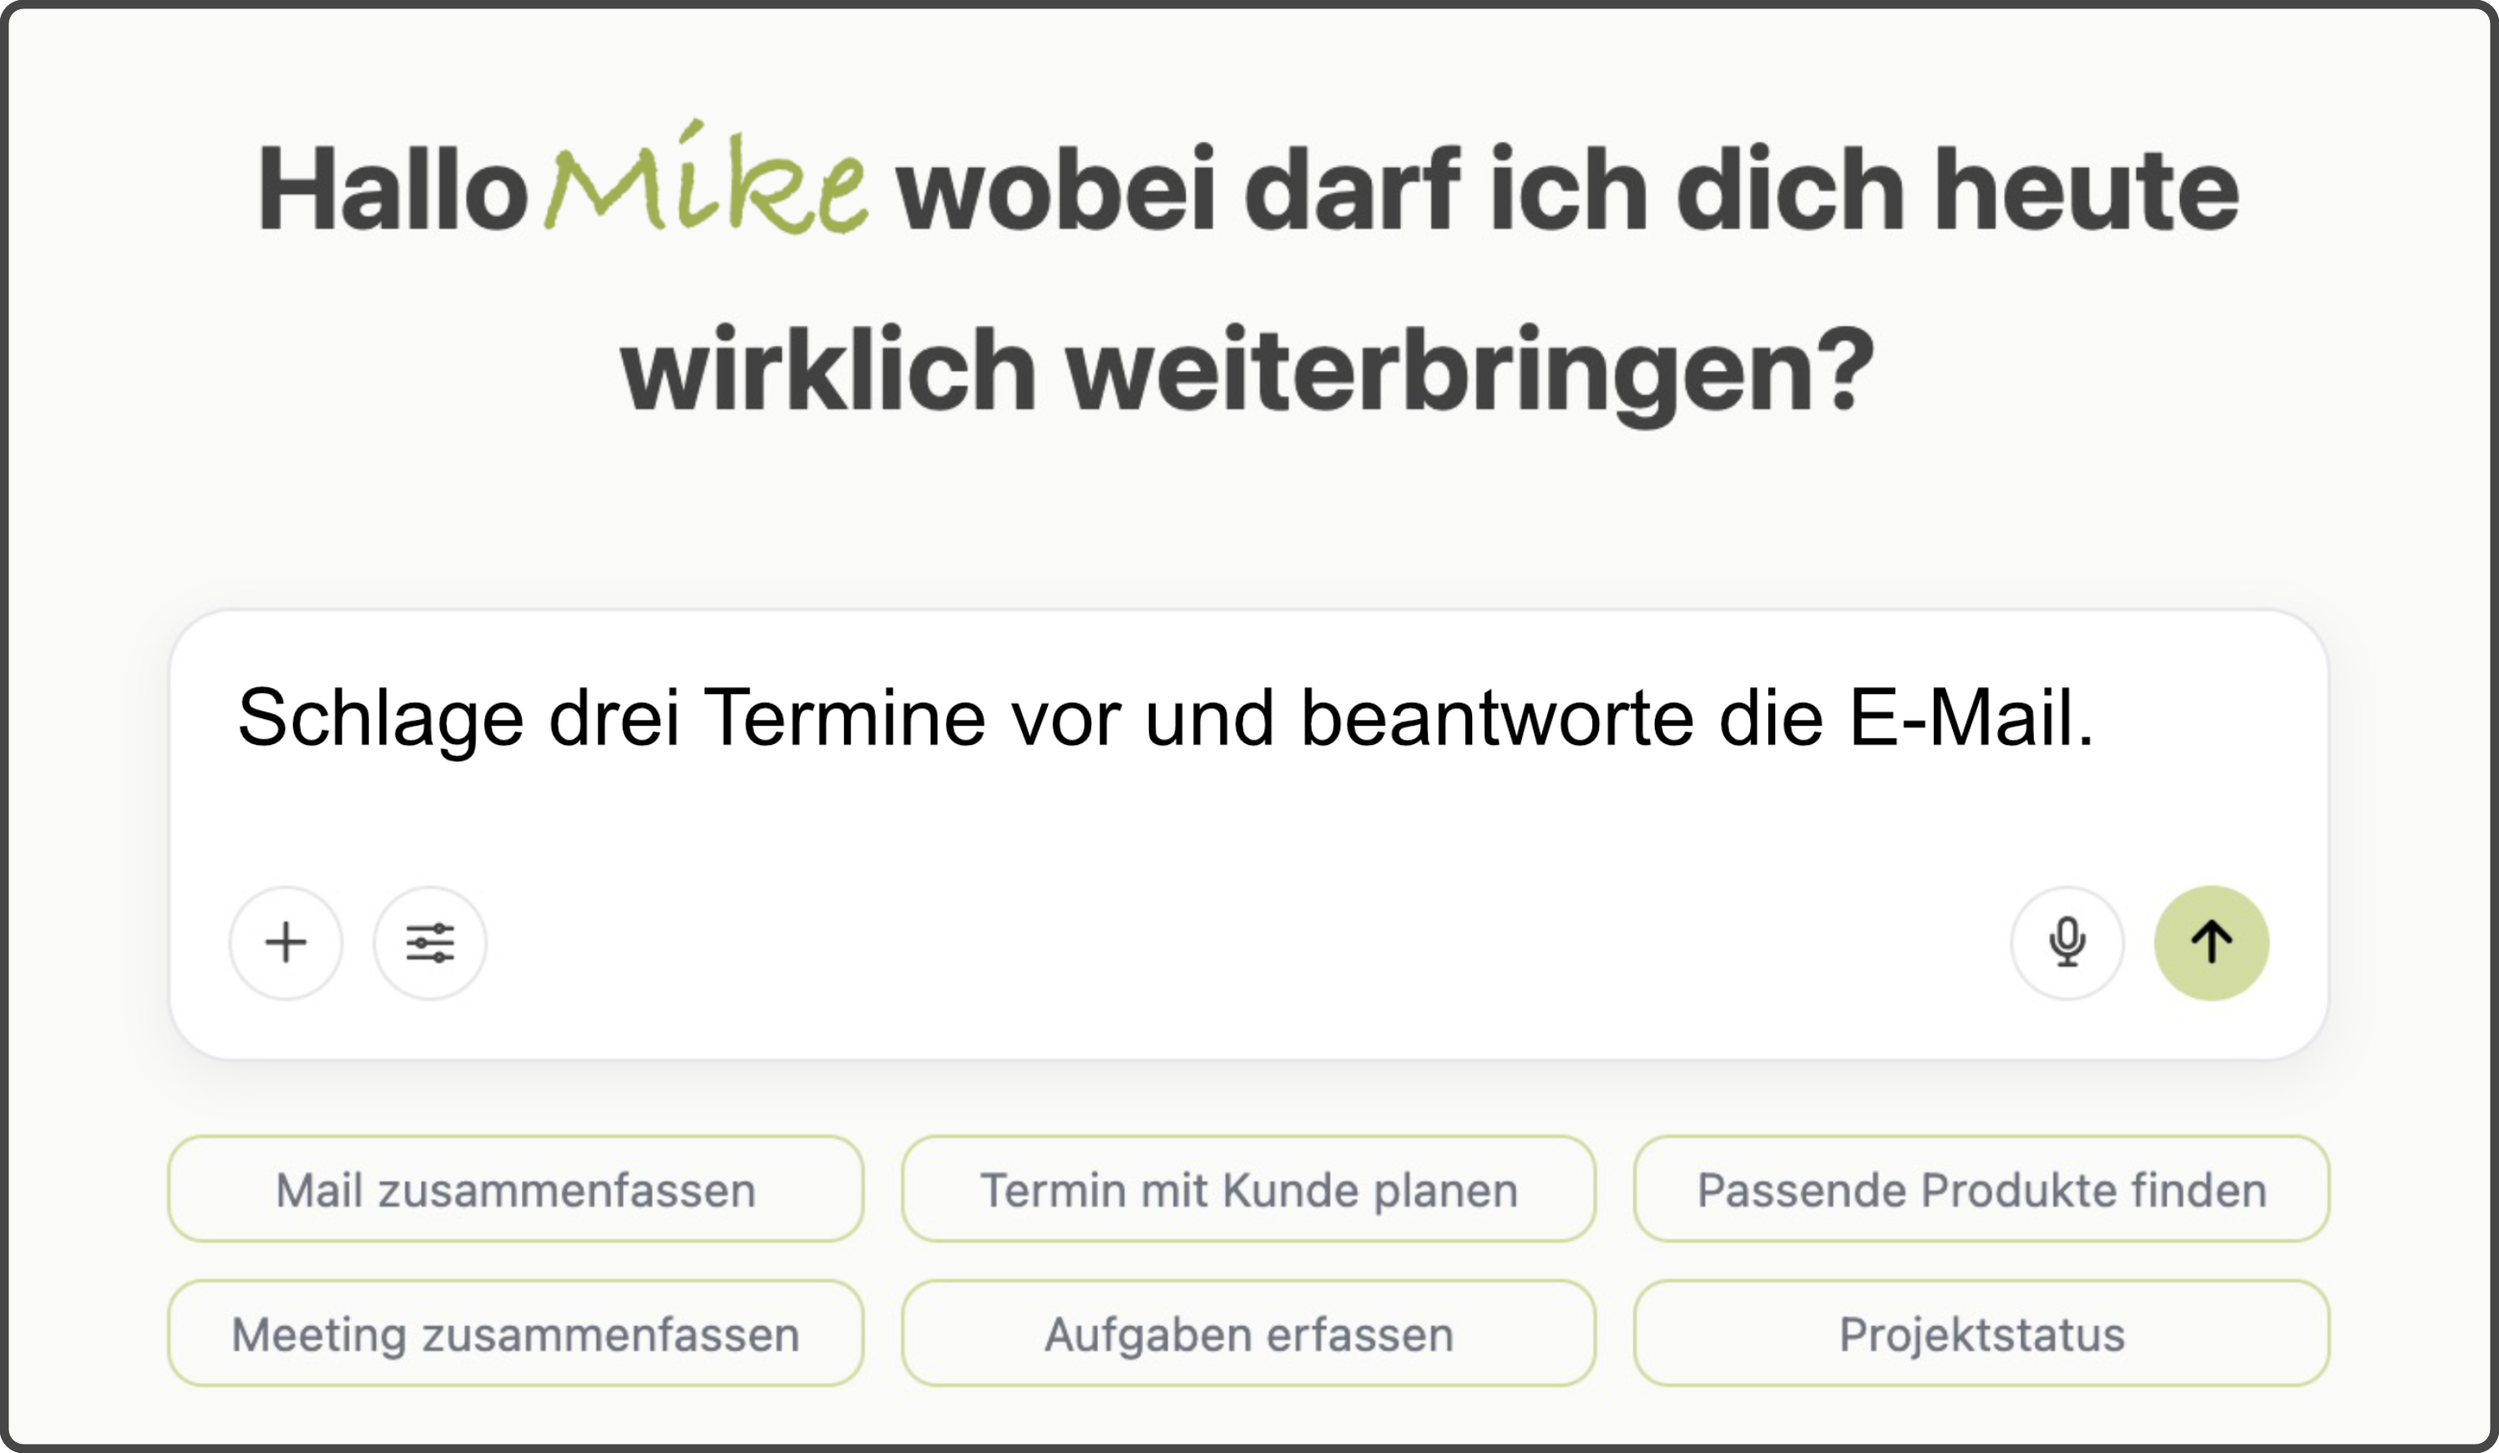
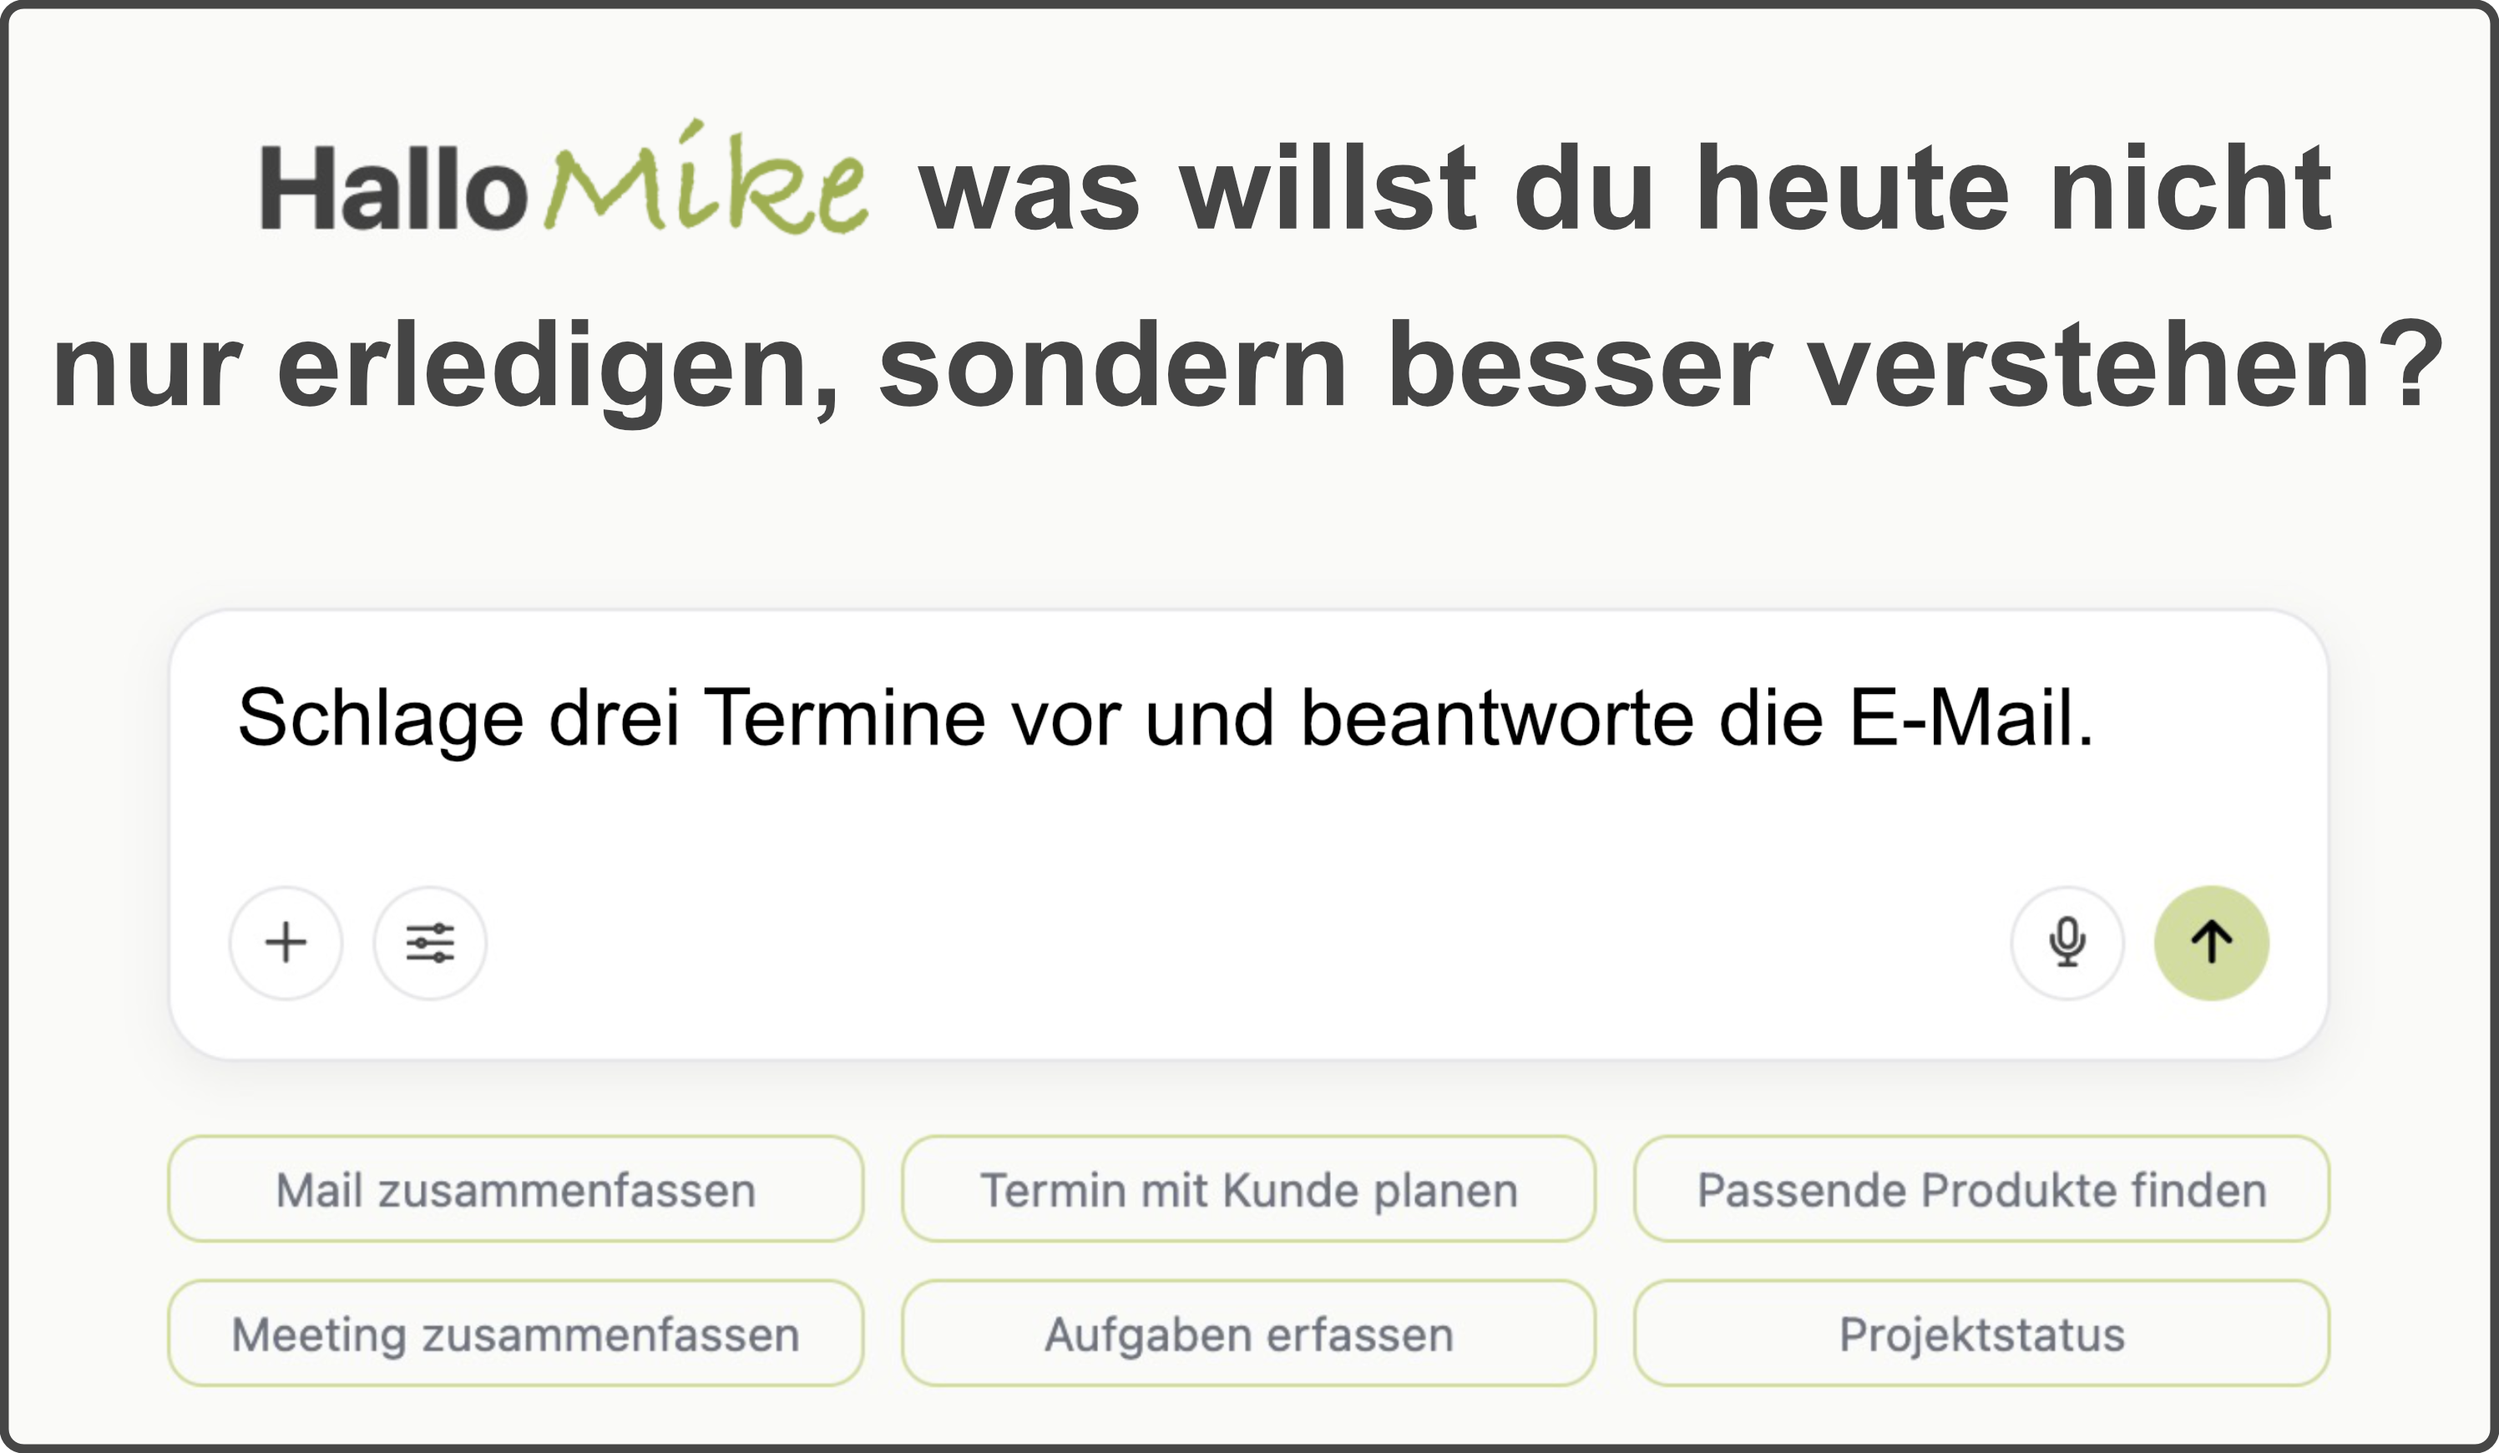
Aktualisiere freigestellte Fragen im Assistenten-Showcase.
Neue gerahmte Fragebilder direkt verwenden und Aufgaben sowie Meetingtranskript den passenden Antworten zuordnen.

Changed region(s): [[0.0, 0.2172, 0.9943, 0.3103], [0.3418, 0.0931, 0.9322, 0.1552]]

diff --git a/index.html b/index.html
@@ -8,7 +8,7 @@
     <link rel="preconnect" href="https://fonts.googleapis.com">
     <link rel="preconnect" href="https://fonts.gstatic.com" crossorigin>
     <link href="https://fonts.googleapis.com/css2?family=Cormorant+Garamond:ital,wght@0,400;0,500;0,600;1,400;1,500&display=swap" rel="stylesheet">
-    <link rel="stylesheet" href="styles.css?v=120">
+    <link rel="stylesheet" href="styles.css?v=121">
   </head>
   <body>
     <header class="site-header">
@@ -278,7 +278,7 @@
             <div class="assistant-showcase-viewport" aria-live="polite">
               <figure class="assistant-showcase-slide is-active" data-example="0" data-step="0">
                 <img
-                  src="assets/images/Asistent%20bei%20der%20Arbeit/Frage%201%20-%20Mail.png?v=3"
+                  src="assets/images/Asistent%20bei%20der%20Arbeit/Frage%201%20-%20Zeige%20E-Mail.png?v=4"
                   alt="Eingabe: Zeige mir die letzte E-Mail von Michael Keller zum Projekt Areal Meierwiesen"
                   width="1600"
                   height="900"
@@ -287,7 +287,7 @@
               </figure>
               <figure class="assistant-showcase-slide" data-example="0" data-step="1" hidden>
                 <img
-                  src="assets/images/Asistent%20bei%20der%20Arbeit/Amtwort%201%20-%20Mail.png?v=3"
+                  src="assets/images/Asistent%20bei%20der%20Arbeit/Amtwort%201%20-%20Mail.png?v=4"
                   alt="Antwort: zuraio zeigt die letzte E-Mail zum Projekt Areal Meierwiesen"
                   width="1600"
                   height="900"
@@ -297,7 +297,7 @@
               </figure>
               <figure class="assistant-showcase-slide" data-example="1" data-step="0" hidden>
                 <img
-                  src="assets/images/Asistent%20bei%20der%20Arbeit/Frage%202%20-%20Zusammenfassung.png?v=3"
+                  src="assets/images/Asistent%20bei%20der%20Arbeit/Frage%202%20-%20Zusammenfassung.png?v=4"
                   alt="Eingabe: Fasse mir den aktuellen Stand des Projekts Areal Meierwiesen zusammen"
                   width="1600"
                   height="900"
@@ -307,7 +307,7 @@
               </figure>
               <figure class="assistant-showcase-slide" data-example="1" data-step="1" hidden>
                 <img
-                  src="assets/images/Asistent%20bei%20der%20Arbeit/Antwort%202%20-%20Zusammenfassung.png?v=3"
+                  src="assets/images/Asistent%20bei%20der%20Arbeit/Antwort%202%20-%20Zusammenfassung.png?v=4"
                   alt="Antwort: zuraio liefert eine Projektzusammenfassung zu Areal Meierwiesen"
                   width="1600"
                   height="900"
@@ -317,7 +317,7 @@
               </figure>
               <figure class="assistant-showcase-slide" data-example="2" data-step="0" hidden>
                 <img
-                  src="assets/images/Asistent%20bei%20der%20Arbeit/Frage%203%20-%20Termine%20und%20Antwort.png?v=3"
+                  src="assets/images/Asistent%20bei%20der%20Arbeit/Frage%203%20-%20Termine%20und%20Antwort.png?v=4"
                   alt="Eingabe: Schlage drei Termine vor und beantworte die E-Mail"
                   width="1600"
                   height="900"
@@ -327,7 +327,7 @@
               </figure>
               <figure class="assistant-showcase-slide" data-example="2" data-step="1" hidden>
                 <img
-                  src="assets/images/Asistent%20bei%20der%20Arbeit/Antwort%203%20-%20Mail.png?v=3"
+                  src="assets/images/Asistent%20bei%20der%20Arbeit/Antwort%203%20-%20Mail.png?v=4"
                   alt="Antwort: zuraio erstellt eine E-Mail-Antwort mit Terminvorschlägen"
                   width="1600"
                   height="900"
@@ -337,7 +337,7 @@
               </figure>
               <figure class="assistant-showcase-slide" data-example="2" data-step="2" hidden>
                 <img
-                  src="assets/images/Asistent%20bei%20der%20Arbeit/Antwort%203%20-%20Termin.png?v=3"
+                  src="assets/images/Asistent%20bei%20der%20Arbeit/Antwort%203%20-%20Termin.png?v=4"
                   alt="Antwort: zuraio trägt drei Terminvorschläge in den Kalender ein"
                   width="1600"
                   height="900"
@@ -347,8 +347,8 @@
               </figure>
               <figure class="assistant-showcase-slide" data-example="3" data-step="0" hidden>
                 <img
-                  src="assets/images/Asistent%20bei%20der%20Arbeit/Frage%204%20-%20Meetingtranskript.png?v=3"
-                  alt="Eingabe: Starte das Meetingtranskript zum Projekt Areal Meierwiesen"
+                  src="assets/images/Asistent%20bei%20der%20Arbeit/Frage%204%20-%20Aufgaben.png?v=4"
+                  alt="Eingabe: Erstelle aus dem Meeting die Aufgaben für mich"
                   width="1600"
                   height="900"
                   loading="lazy"
@@ -357,8 +357,8 @@
               </figure>
               <figure class="assistant-showcase-slide" data-example="3" data-step="1" hidden>
                 <img
-                  src="assets/images/Asistent%20bei%20der%20Arbeit/Antwort%204%20-%20Meetingtranskript.png?v=3"
-                  alt="Antwort: zuraio zeigt das Meetingtranskript mit Audio-Wellenform"
+                  src="assets/images/Asistent%20bei%20der%20Arbeit/Antwort%205%20-%20Aufgabe.png?v=4"
+                  alt="Antwort: zuraio legt die Meeting-Aufgaben im Board an"
                   width="1600"
                   height="900"
                   loading="lazy"
@@ -367,8 +367,8 @@
               </figure>
               <figure class="assistant-showcase-slide" data-example="4" data-step="0" hidden>
                 <img
-                  src="assets/images/Asistent%20bei%20der%20Arbeit/Frage%205%20-%20Aufgabe.png?v=3"
-                  alt="Eingabe: Erstelle aus dem Meeting die Aufgaben für mich"
+                  src="assets/images/Asistent%20bei%20der%20Arbeit/Frage%205%20-%20Meetingtranskript.png?v=4"
+                  alt="Eingabe: Starte das Meetingtranskript zum Projekt Areal Meierwiesen"
                   width="1600"
                   height="900"
                   loading="lazy"
@@ -377,8 +377,8 @@
               </figure>
               <figure class="assistant-showcase-slide" data-example="4" data-step="1" hidden>
                 <img
-                  src="assets/images/Asistent%20bei%20der%20Arbeit/Antwort%205%20-%20Aufgabe.png?v=3"
-                  alt="Antwort: zuraio legt die Meeting-Aufgaben im Board an"
+                  src="assets/images/Asistent%20bei%20der%20Arbeit/Antwort%204%20-%20Meetingtranskript.png?v=4"
+                  alt="Antwort: zuraio zeigt das Meetingtranskript mit Audio-Wellenform"
                   width="1600"
                   height="900"
                   loading="lazy"
@@ -387,7 +387,7 @@
               </figure>
               <figure class="assistant-showcase-slide" data-example="5" data-step="0" hidden>
                 <img
-                  src="assets/images/Asistent%20bei%20der%20Arbeit/Frage%206%20-%20Briefing.png?v=3"
+                  src="assets/images/Asistent%20bei%20der%20Arbeit/Frage%206%20-%20Briefing.png?v=4"
                   alt="Eingabe: Erstelle mir ein kompaktes Briefing für das Statusmeeting mit dem Kunden"
                   width="1600"
                   height="900"
@@ -397,7 +397,7 @@
               </figure>
               <figure class="assistant-showcase-slide" data-example="5" data-step="1" hidden>
                 <img
-                  src="assets/images/Asistent%20bei%20der%20Arbeit/Antwort%206%20-%20Briefing.png?v=3"
+                  src="assets/images/Asistent%20bei%20der%20Arbeit/Antwort%206%20-%20Briefing.png?v=4"
                   alt="Antwort: zuraio liefert ein kompaktes Meetingbriefing"
                   width="1600"
                   height="900"
@@ -663,6 +663,6 @@
     </div>
 
     <script src="i18n-pages.js"></script>
-    <script src="script.js?v=63"></script>
+    <script src="script.js?v=64"></script>
   </body>
 </html>

diff --git a/script.js b/script.js
@@ -218,12 +218,12 @@ const translations = {
           "Antwort: zuraio trägt drei Terminvorschläge in den Kalender ein",
         ],
         [
-          "Eingabe: Starte das Meetingtranskript zum Projekt Areal Meierwiesen",
-          "Antwort: zuraio zeigt das Meetingtranskript mit Audio-Wellenform",
-        ],
-        [
           "Eingabe: Erstelle aus dem Meeting die Aufgaben für mich",
           "Antwort: zuraio legt die Meeting-Aufgaben im Board an",
+        ],
+        [
+          "Eingabe: Starte das Meetingtranskript zum Projekt Areal Meierwiesen",
+          "Antwort: zuraio zeigt das Meetingtranskript mit Audio-Wellenform",
         ],
         [
           "Eingabe: Erstelle mir ein kompaktes Briefing für das Statusmeeting mit dem Kunden",
@@ -841,12 +841,12 @@ const translations = {
           "Answer: zuraio places three appointment suggestions in the calendar",
         ],
         [
-          "Input: Start the meeting transcript for the Areal Meierwiesen project",
-          "Answer: zuraio shows the meeting transcript with an audio waveform",
-        ],
-        [
           "Input: Create my tasks from the meeting",
           "Answer: zuraio adds the meeting tasks to the board",
+        ],
+        [
+          "Input: Start the meeting transcript for the Areal Meierwiesen project",
+          "Answer: zuraio shows the meeting transcript with an audio waveform",
         ],
         [
           "Input: Create a compact briefing for the status meeting with the customer",
@@ -1427,12 +1427,12 @@ const translations = {
           "Resposta: a zuraio coloca três sugestões de horário no calendário",
         ],
         [
-          "Entrada: Inicie a transcrição da reunião do projeto Areal Meierwiesen",
-          "Resposta: a zuraio mostra a transcrição da reunião com forma de onda de áudio",
-        ],
-        [
           "Entrada: Crie as tarefas para mim a partir da reunião",
           "Resposta: a zuraio coloca as tarefas da reunião no board",
+        ],
+        [
+          "Entrada: Inicie a transcrição da reunião do projeto Areal Meierwiesen",
+          "Resposta: a zuraio mostra a transcrição da reunião com forma de onda de áudio",
         ],
         [
           "Entrada: Crie um briefing compacto para a reunião de status com o cliente",

diff --git a/styles.css b/styles.css
@@ -1408,7 +1408,7 @@ button.button {
   inset: 19% auto auto 1.8%;
   width: 34%;
   height: auto;
-  aspect-ratio: 1.875;
+  aspect-ratio: 2993 / 1740;
   opacity: 1;
   transform: scale(1) translate3d(0, 0, 0);
   filter: blur(0) saturate(1);
@@ -1420,13 +1420,11 @@ button.button {
 }
 
 .assistant-showcase-slide.is-companion-question img {
-  position: absolute;
-  top: -35%;
-  left: -15%;
-  width: 147%;
-  max-width: none;
-  height: auto;
-  object-fit: initial;
+  position: static;
+  width: 100%;
+  max-width: 100%;
+  height: 100%;
+  object-fit: contain;
   background: transparent;
 }
 
